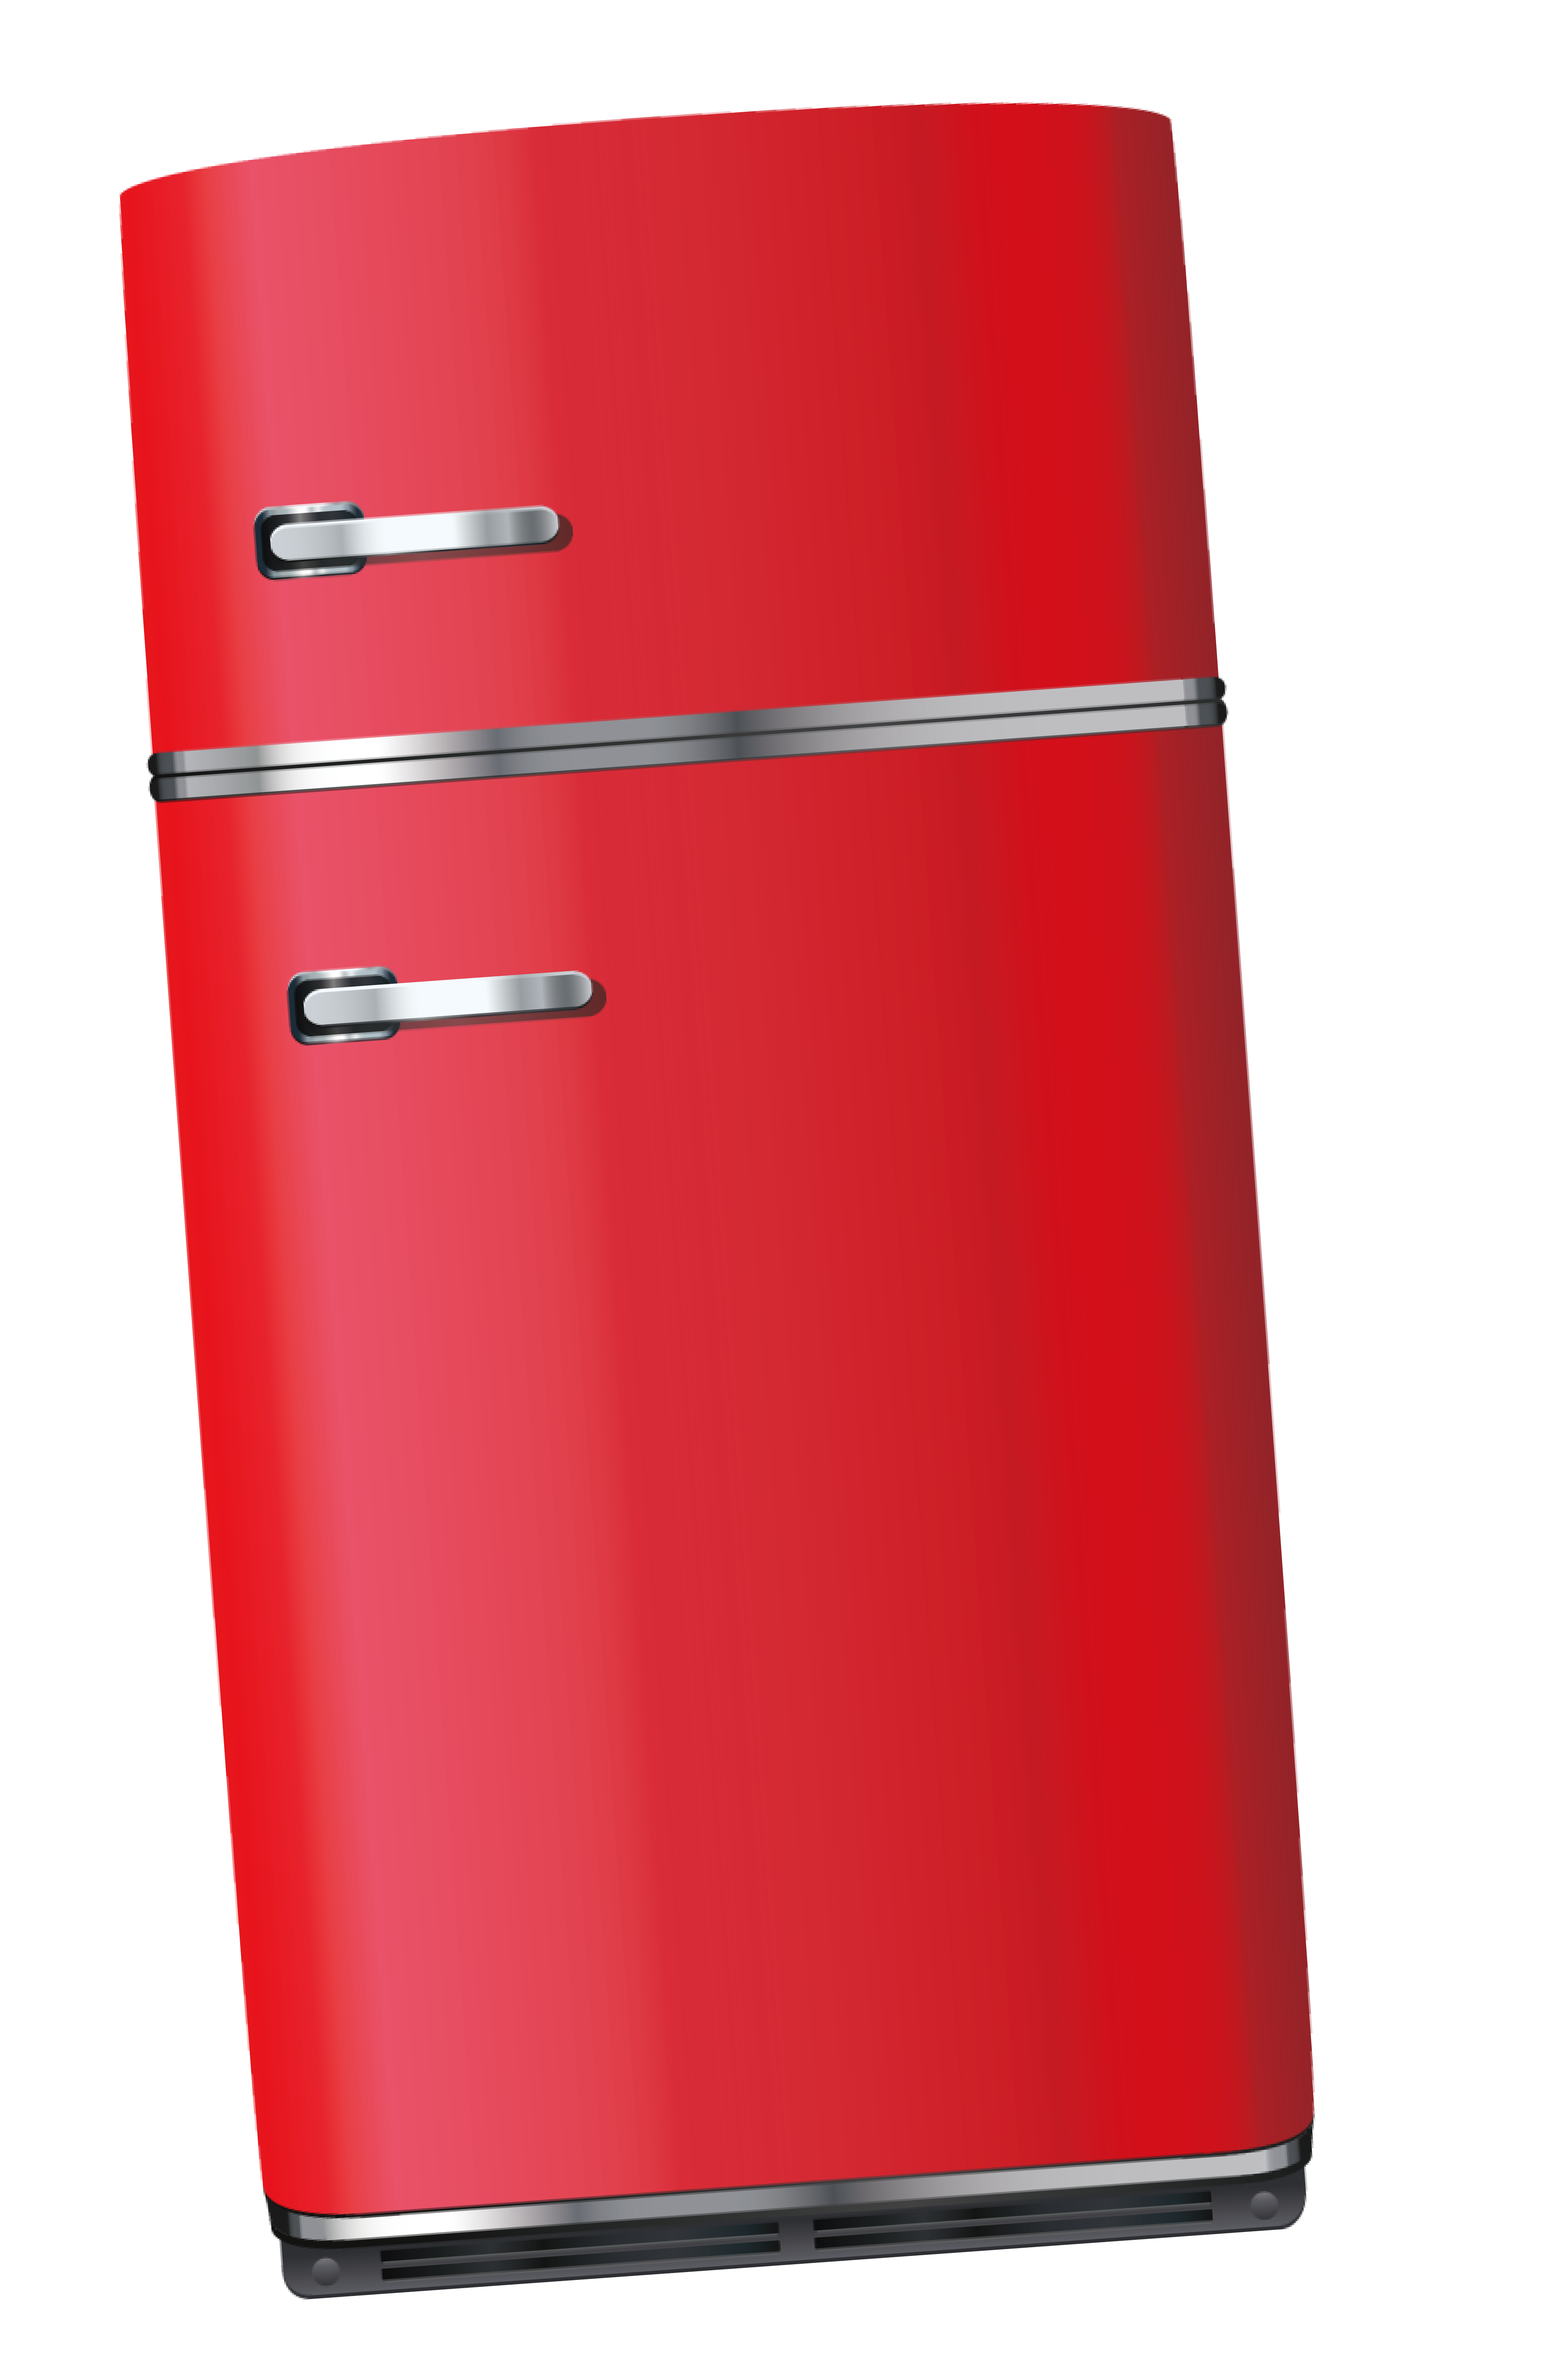
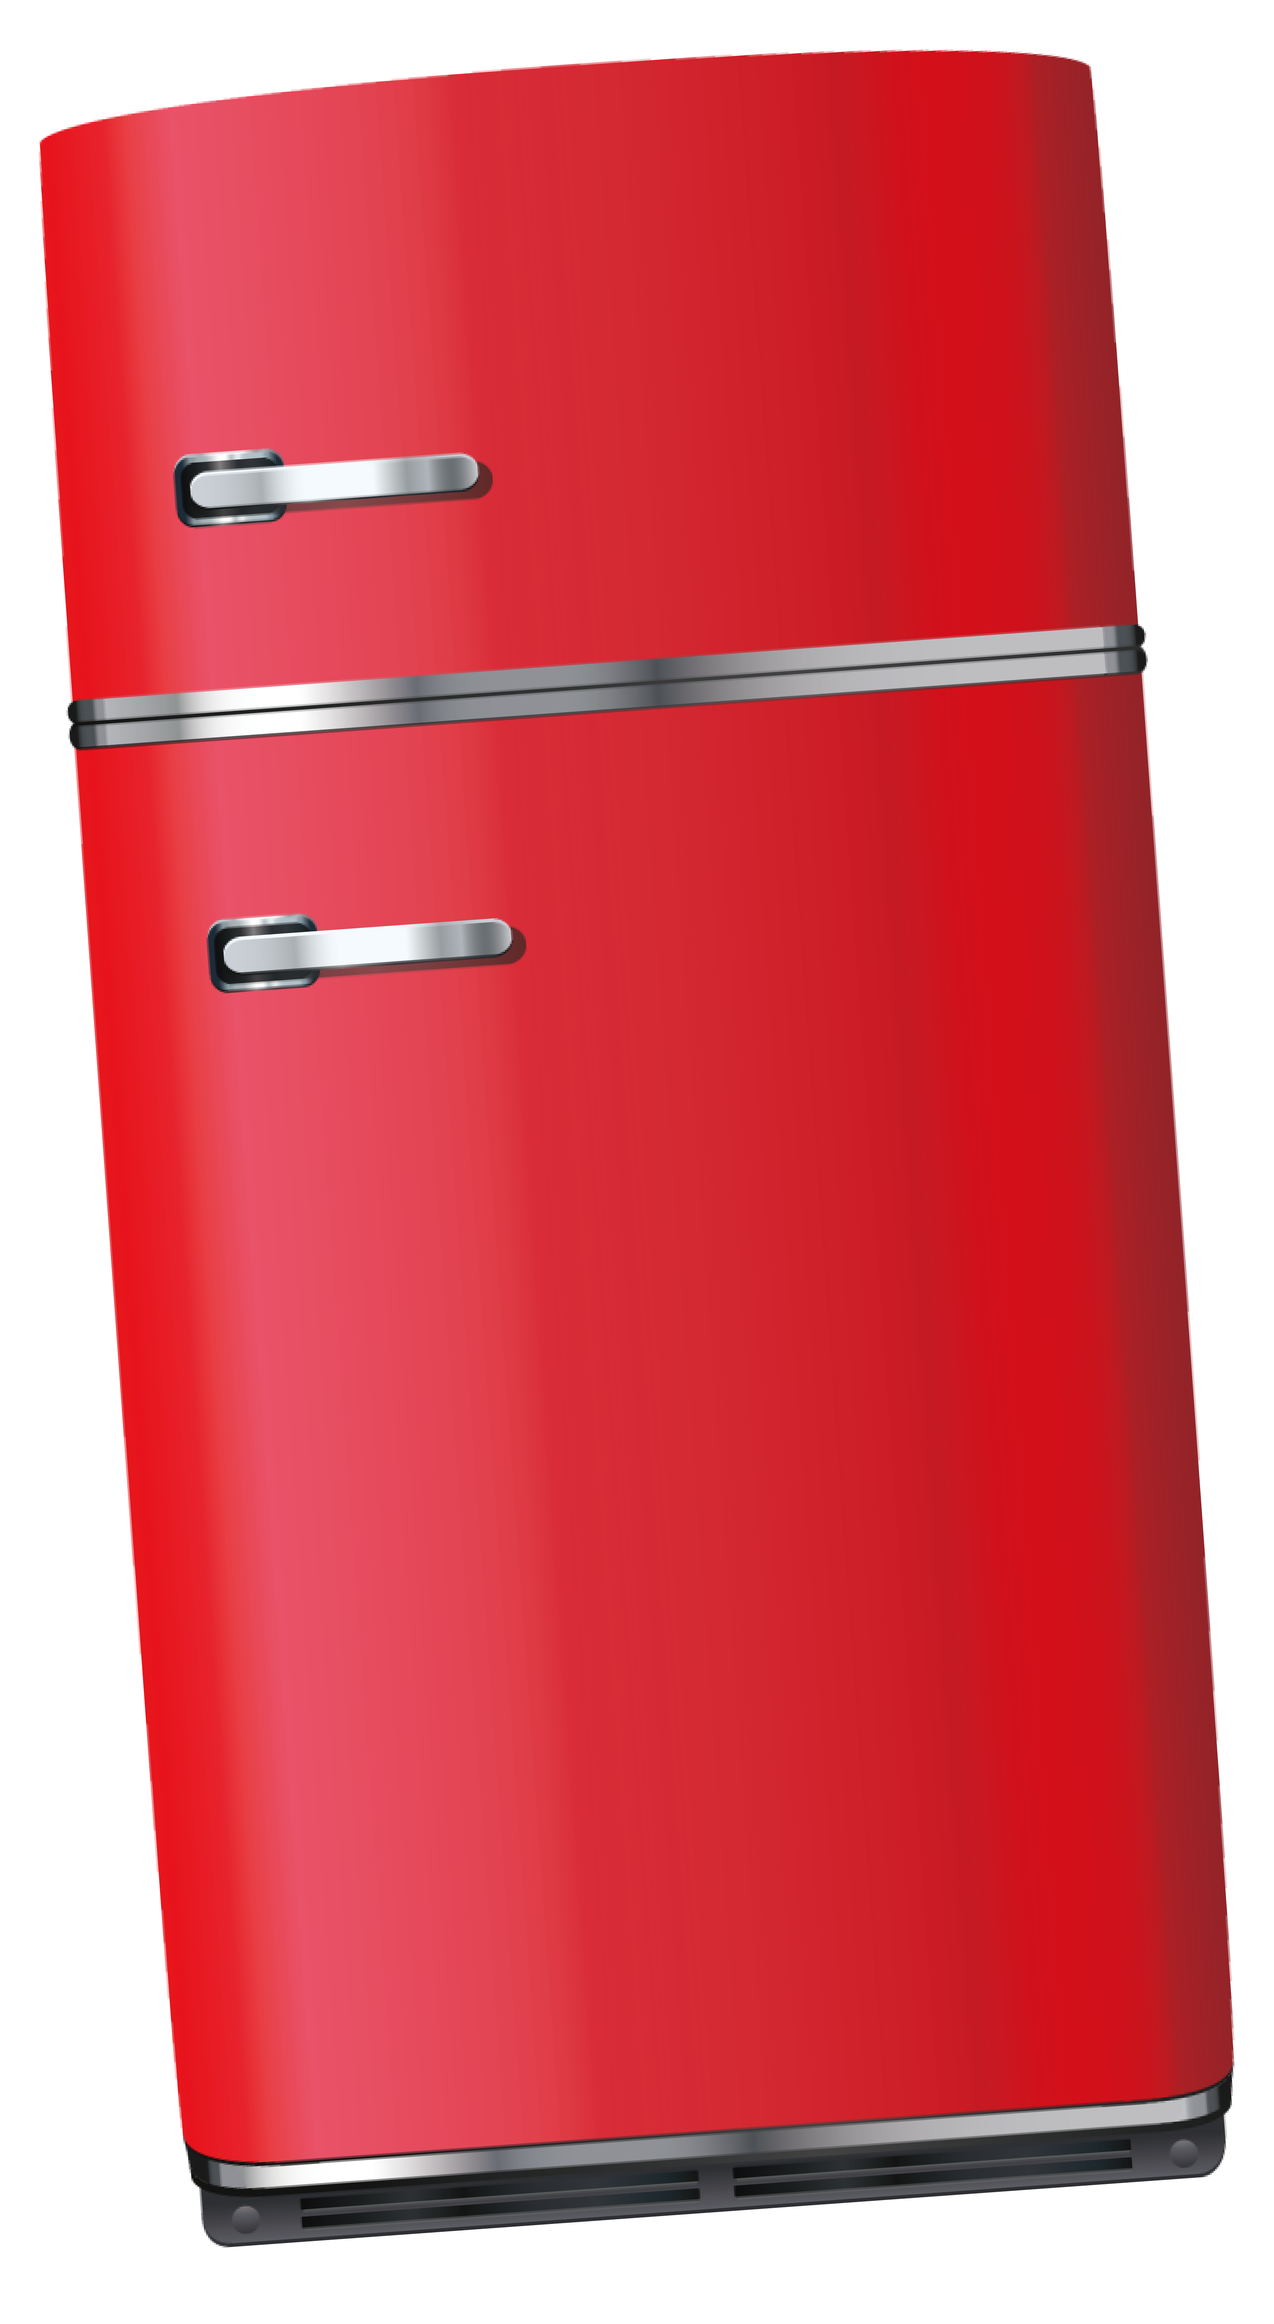
more changes in html

Changed region(s): [[0.0311, 0.0, 0.9942, 0.9633]]

diff --git a/css/main.css b/css/main.css
@@ -1,6 +1,7 @@
 *{
     margin: 0;
     padding: 0;
+    text-decoration: none;
 }
 
 body{
@@ -37,6 +38,10 @@ body{
 
 }
 
+h1 a{
+    color: inherit;
+}
+
 
 /* 메인페이지 타이틀 아래 부분을 main container로 감쌈 */
 .main-container{
@@ -49,17 +54,20 @@ body{
 /* 냉장고와 레시피 노트 이미지 부분 위치 설정 */
 
 .fridge-img-container{
-    width: 600px;
-    height: 100%;
+    width: 520px;
+    height: auto;
+    margin-left: 8%;
 }
 
 /* 냉장고 컨테이너의 첫번쨰 자식인 냉장고 이미지 */
-.fridge-img-container > img:nth-child(1) {
+.fridge-img-container > a:nth-child(1) > img {
+    display: flex;
+    flex-direction: center;
     width: 100%;
 }
 
 /* 냉장고 컨테이너의 두번째 자식인 레시피노트 이미지 */
-.fridge-img-container > img:nth-child(2){
+.fridge-img-container > a:nth-child(2) > img{
     position: relative;
     width: 230px;
     bottom: 800px;
@@ -67,16 +75,37 @@ body{
     z-index: 50;
 }
 
+/* 냉장고에 마우스를 올렸을 때 효과 */
+.fridge-img-container > a:nth-child(1) > img:hover {
+    width: 530px;
+    transition: 0.2s;
+    transition-delay: 0.1s;
+    transition-timing-function:ease-in;
+    cursor: pointer;
+}
+
+/* 레시피 노트에 마우스를 올렸을 때 효과 */
+.fridge-img-container > a:nth-child(2) > img:hover{
+    width: 240px;
+    transition: 0.2s;
+    transition-delay: 0.1s;
+    transition-timing-function:ease;
+    cursor: pointer;
+}
+
+
+
+
+
+
 /* 냉장고 왼쪽 click fridge 설명 부분  */
 
 .clickFridge-container{
     display: flex;
     position: relative;
     flex-direction: column;
-    top: 280px;
-    left: 140px;
-    z-index: 60;
-    margin-right: 20px;
+    left: 190px;
+    top: 290px;
 }
 
 
@@ -91,8 +120,8 @@ body{
     font-family: UhBee Seulvely;
     font-style: normal;
     font-weight: normal;
-    font-size: 22px;
-    line-height: 30px;
+    font-size: 20px;
+    line-height: 28px;
     text-align: right;
     text-decoration-line: underline;
 
@@ -107,31 +136,29 @@ body{
 .clickRecipe-container{
     display: flex;
     position: relative;
+    right: 100px;
+    top:90px;
     flex-direction: column;
-    top: 280px;
     z-index: 80;
 }
 
+/* 빨간 click recipe 버튼 이미지 */
 
 .clickRecipe-container > img{
-
+    margin-left: 120px;
     width: 230px;
 
 }
 
+/* click recipe 설명 부분 */
 .clickRecipe-container > div {
-
-
-
     font-family: UhBee Seulvely;
     font-style: normal;
     font-weight: normal;
-    font-size: 30px;
-    line-height: 41px;
+    font-size: 20px;
+    line-height: 28px;
     text-decoration-line: underline;
-    
     color: #000000;
-    
 
 }
 

diff --git a/templates/main.html b/templates/main.html
@@ -10,7 +10,7 @@
     <body>
         <div class="title-container">
             <h3>냉장고에 뭐있어?</h3>
-            <h1>WHAT’S IN YOUR FRIDGE?</h1>
+            <h1><a href="#">WHAT’S IN YOUR FRIDGE?</a> </h1>
         </div>
         <div class="main-container">
             <div class="clickFridge-container">
@@ -20,8 +20,8 @@
 
 
             <div class="fridge-img-container">
-                <img src="/img/main-fridge-img.png" alt="">
-                <img src="/img/main-recipenote-img.png" alt="">
+                <a href=""><img src="/img/main-fridge-img.png" alt="fridge" ></a>
+                <a href=""><img src="/img/main-recipenote-img.png" alt="recipenote"></a>
             </div>
             <div class="clickRecipe-container">
                 <img src="/img/click-recipe-img.png" alt="">
